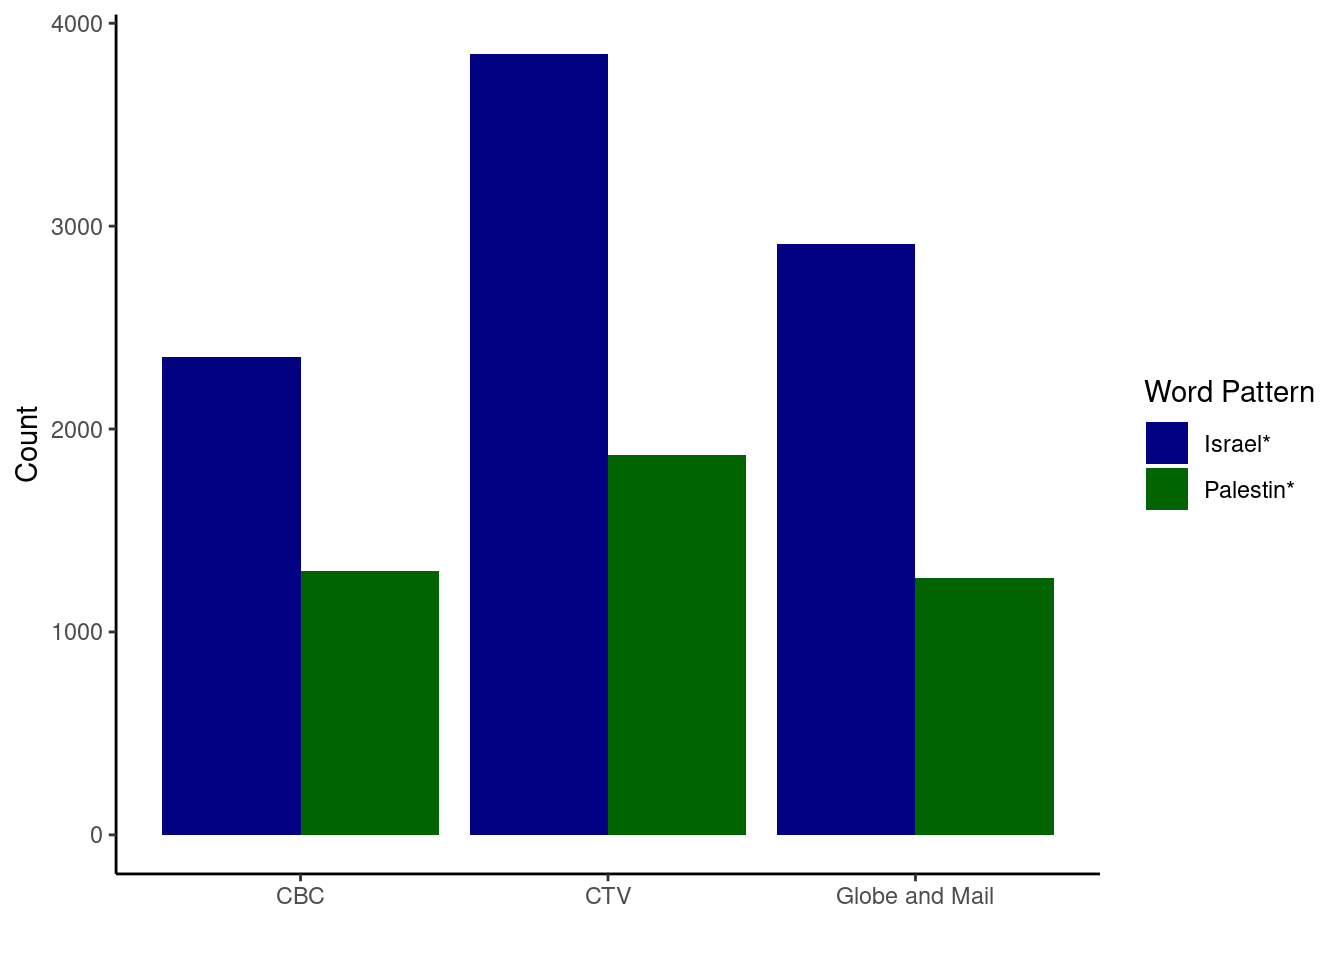
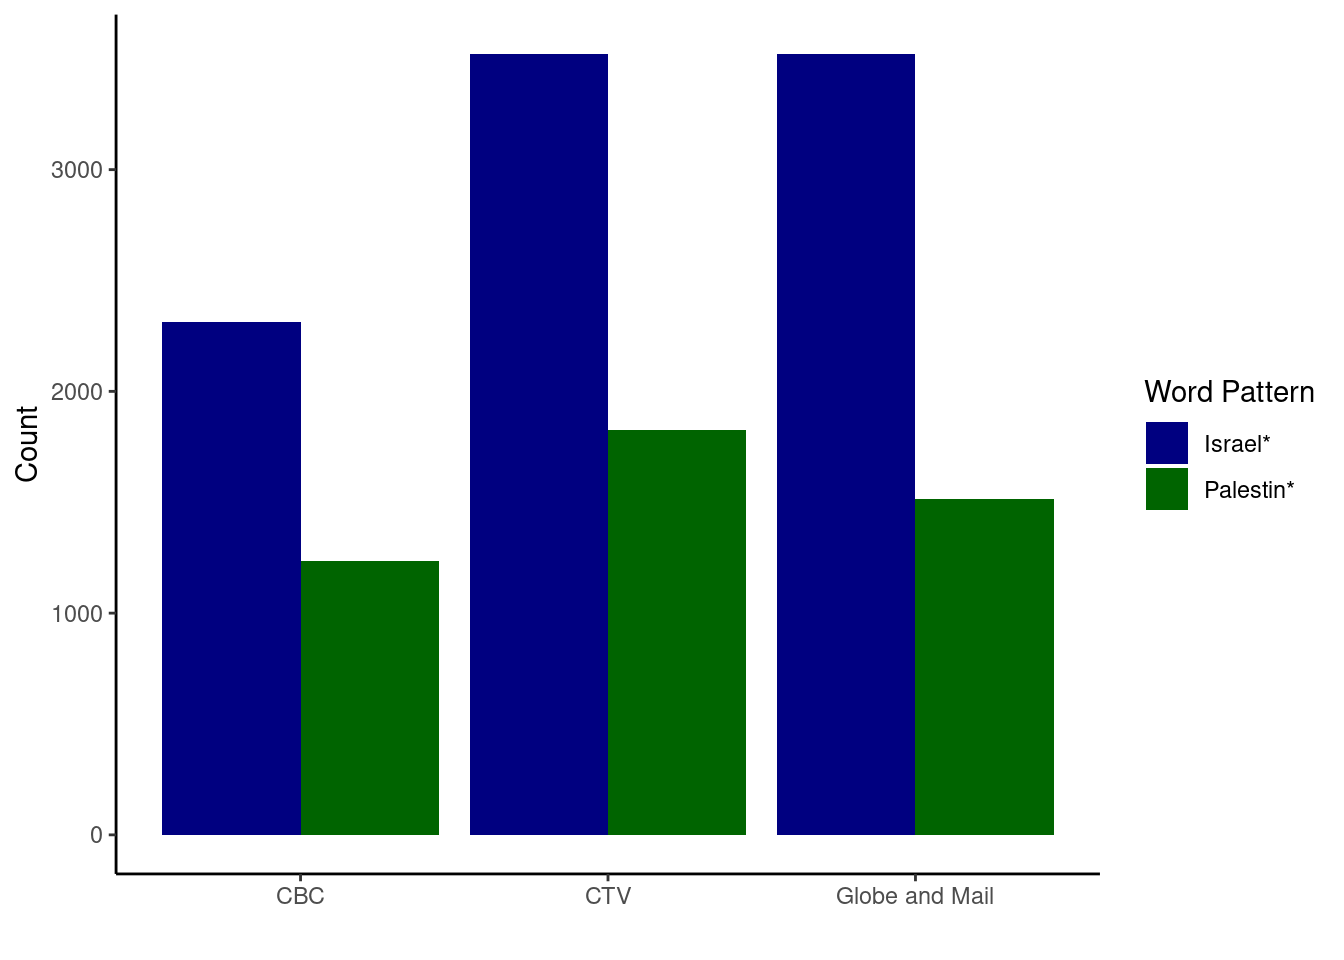
add deaths

diff --git a/docs/data-visualizations/media-coverage.html b/docs/data-visualizations/media-coverage.html
@@ -186,10 +186,16 @@ ul.task-list li input[type="checkbox"] {
 <section id="who-are-we-discussing" class="level1">
 <h1>Who are we discussing?</h1>
 <p>We used a grey literature search tool to search Google for articles that contained the words “Israeli” or “Palestinian” on CBC, CTV, and The Globe and Mail websites.</p>
-<p>We then scraped the content of the sites to allow us to do text analysis. After removing duplicates, and articles that were written before Oct 7, we had <strong>319 articles</strong>. We searched for all instances of words that contained any pattern that included “Israel” (e.g., Israel, Israeli, Israelis) and “Palestin” (i.e., “Palestinian”, “Palestine”, “Palestinians”). We found that Canadian media has significant bias and uses the word Israel* more than double Palestin*.</p>
+<p>We then scraped the content of the sites to allow us to do text analysis. After removing duplicates, and articles that were written before Oct 7, we had <strong>483 articles</strong>. We searched for all instances of words that contained any pattern that included “Israel” (e.g., Israel, Israeli, Israelis) and “Palestin” (i.e., “Palestinian”, “Palestine”, “Palestinians”). We found that Canadian media has significant bias and uses the word Israel* more than double Palestin*.</p>
 <div class="cell">
 <div class="cell-output-display">
 <p><img src="media-coverage_files/figure-html/unnamed-chunk-2-1.png" class="img-fluid" width="672"></p>
+</div>
+</div>
+<p>When we get more specific, we see that comparing the phrases “Israelis killed” and “Palestinians killed”, we see much lower counts of both phrases being used. CBC has the most dispararity (but note the lowest overall count), with 5x more mentions of Palestinians killed, CTV 2.1 times, and The Globe and Mail 3.5 times. Reuters <a href="https://www.reuters.com/world/middle-east/how-many-palestinians-have-died-gaza-war-how-will-counting-continue-2023-12-06/">reports</a> at least 16,015 Palestinians have been killed since then, according to Gaza Health Ministry figures, while 1,200 people were killed in Hamas’ incursion into Israel, according to Israeli tallies. At this time, approximately 13x more Palestinians have been killed than Israelis.</p>
+<div class="cell">
+<div class="cell-output-display">
+<p><img src="media-coverage_files/figure-html/unnamed-chunk-3-1.png" class="img-fluid" width="672"></p>
 </div>
 </div>
 

diff --git a/docs/previous-work/previous-work-landing.html b/docs/previous-work/previous-work-landing.html
@@ -181,6 +181,12 @@ ul.task-list li input[type="checkbox"] {
 <ul>
 <li><a href="https://www.columnblog.com/p/massacred-vs-left-to-die-documenting">The Column: “Massacred” vs “Left to Die”</a></li>
 <li><a href="https://breachmedia.ca/canadian-media-ctv-racist-double-standards-palestinians/">The Breach: CTV’s Double Standards</a></li>
+<li><a href="https://breachmedia.ca/how-canadian-media-distorts-the-truth-about-palestine/">The Breach: How Canadian Media Distorts the Truth About Palestine</a></li>
+<li><a href="https://breachmedia.ca/ctv-bell-media-forbids-palestine-suppresses-criticism-israel/">The Breach: CTV forbids use of ‘Palestine,’ suppresses critical stories about Israel</a></li>
+<li><a href="https://www.readthemaple.com/politicians-are-lying-about-the-swastika-at-ottawa-palestine-rally/">The Maple: Politicians Are Lying About The Swastika At Ottawa Palestine Rally</a></li>
+<li><a href="https://www.readthemaple.com/palestine-solidarity-activists-reject-claims-about-concordia-altercations/">The Maple: Palestine Solidarity Activists Reject Claims About Concordia Altercations</a></li>
+<li><a href="https://www.readthemaple.com/canadian-media-outlets-are-erasing-palestine-from-history/">The Maple: Canadian Media Outlets Are Erasing Palestine From History</a></li>
+<li><a href="https://www.readthemaple.com/toronto-star-deletes-palestine-after-complaint-from-israel-lobby/">The Maple: Toronto Star Deletes ‘Palestine’ After Complaint From Israel Lobby</a></li>
 </ul>
 
 
